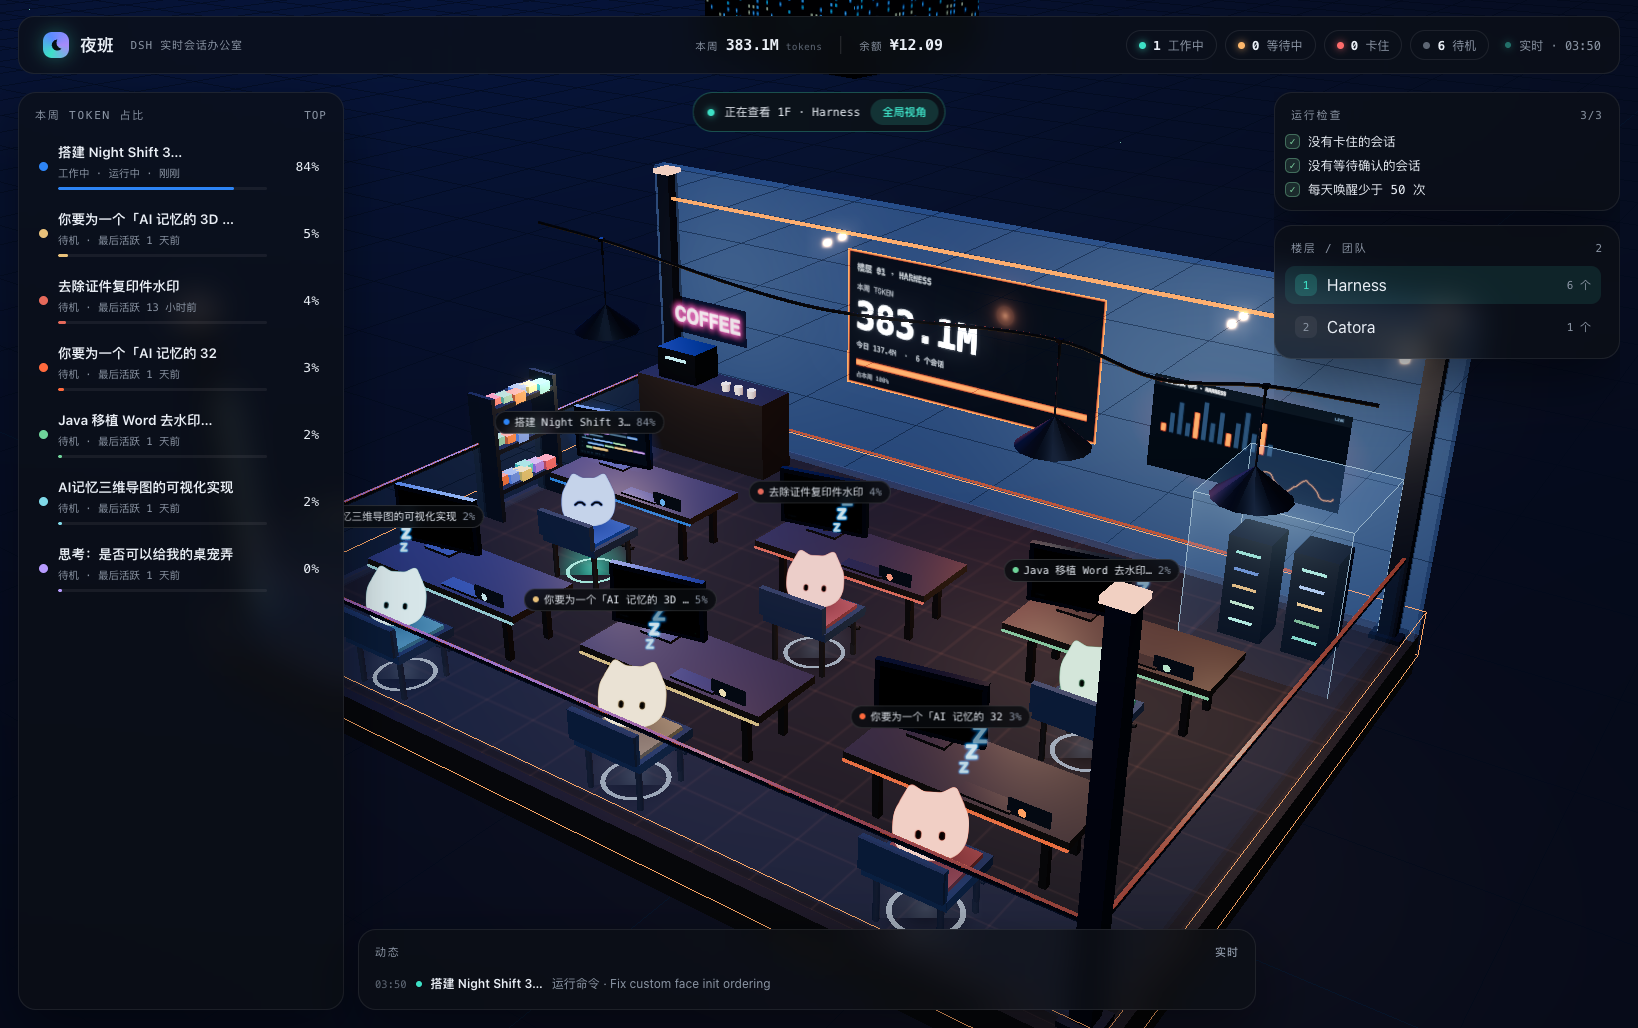
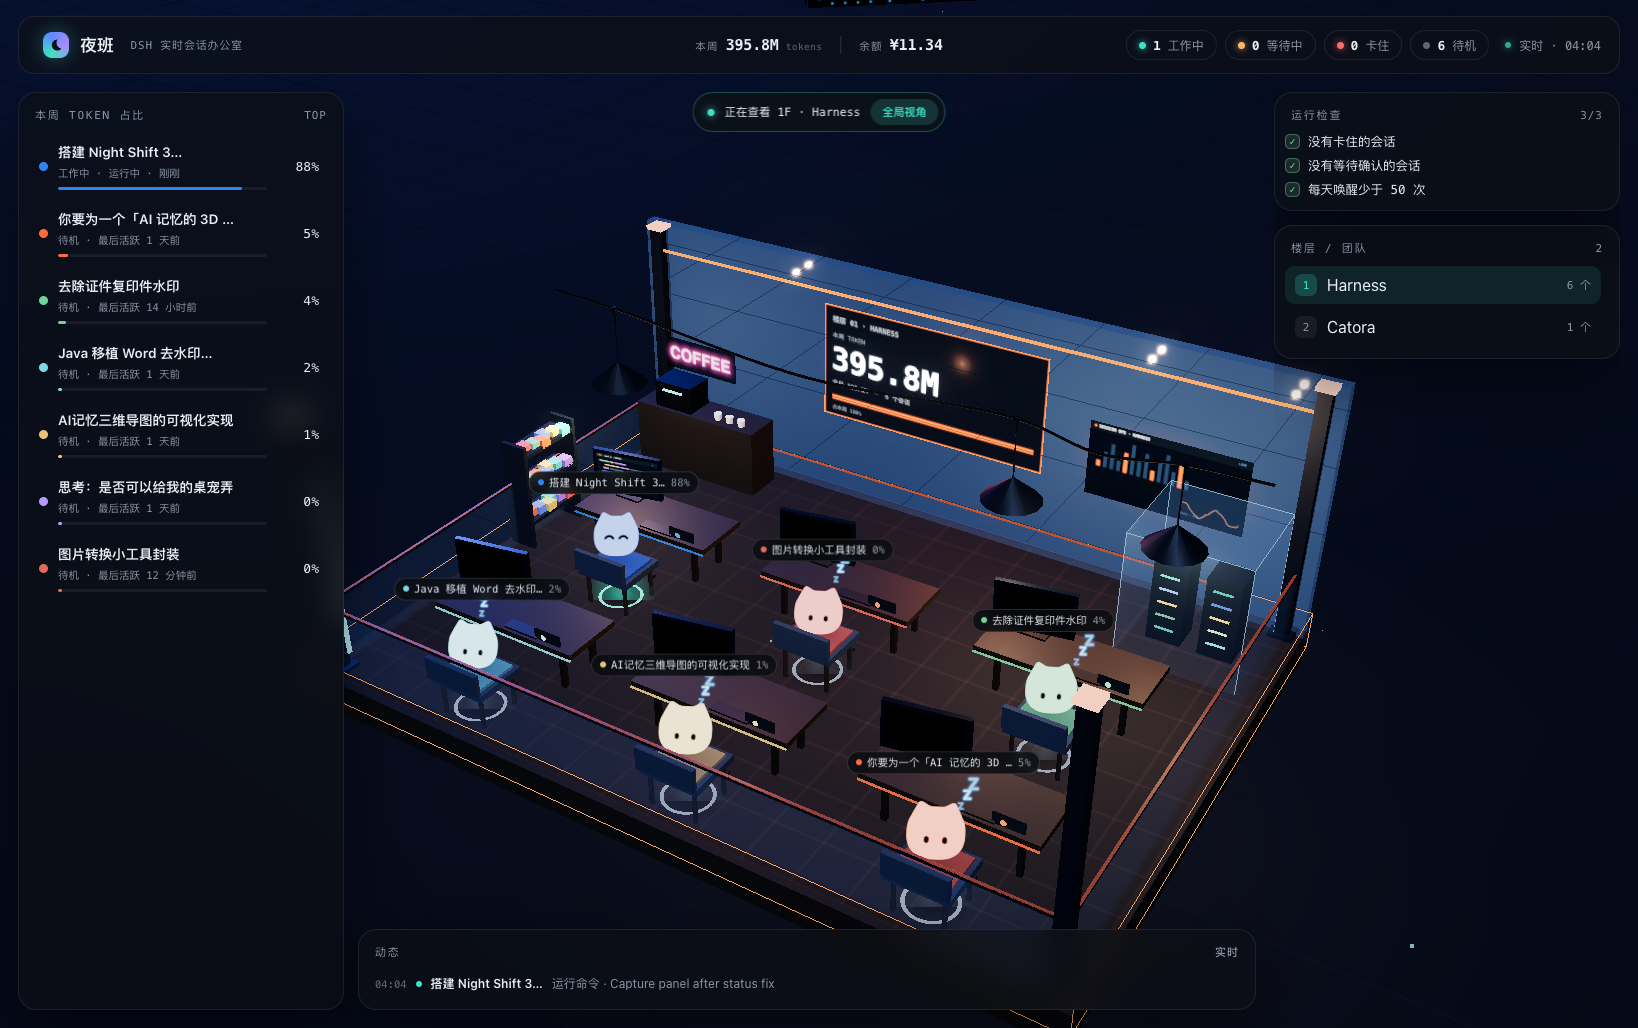
fix(state): 正确关闭 ask_user_question，修复等待状态不消失
- tool/result 的调用 id 在 message.toolCallId / message.source.callId，之前只读顶层 toolCallId
- 导致问询工具永远留在 toolOpen，状态卡在「等待你回答问题」
- 已兼容三种 id 位置；验证该会话恢复为「待机」，运行检查 3/3
- 版本 3.3.4

diff --git a/lib/state.js b/lib/state.js
@@ -169,9 +169,13 @@ function parseSession(file, cache) {
         lastTool = { name: data.name ?? '', args: data.arguments ?? '', at: tsMs }
         toolOpen.set(data.callId, data.name ?? '')
         break
-      case 'tool/result':
-        toolOpen.delete(data.toolCallId)
+      case 'tool/result': {
+        // tool/result 的调用 id 可能在 message.toolCallId / message.source.callId 里，
+        // 不能只看顶层 data.toolCallId，否则 ask_user_question 会永远处于“等待回答”
+        const callId = data.toolCallId ?? data.message?.toolCallId ?? data.message?.source?.callId
+        if (callId !== undefined && callId !== null) toolOpen.delete(callId)
         break
+      }
       case 'approval/asked':
         asked.set(data.id, data)
         break
